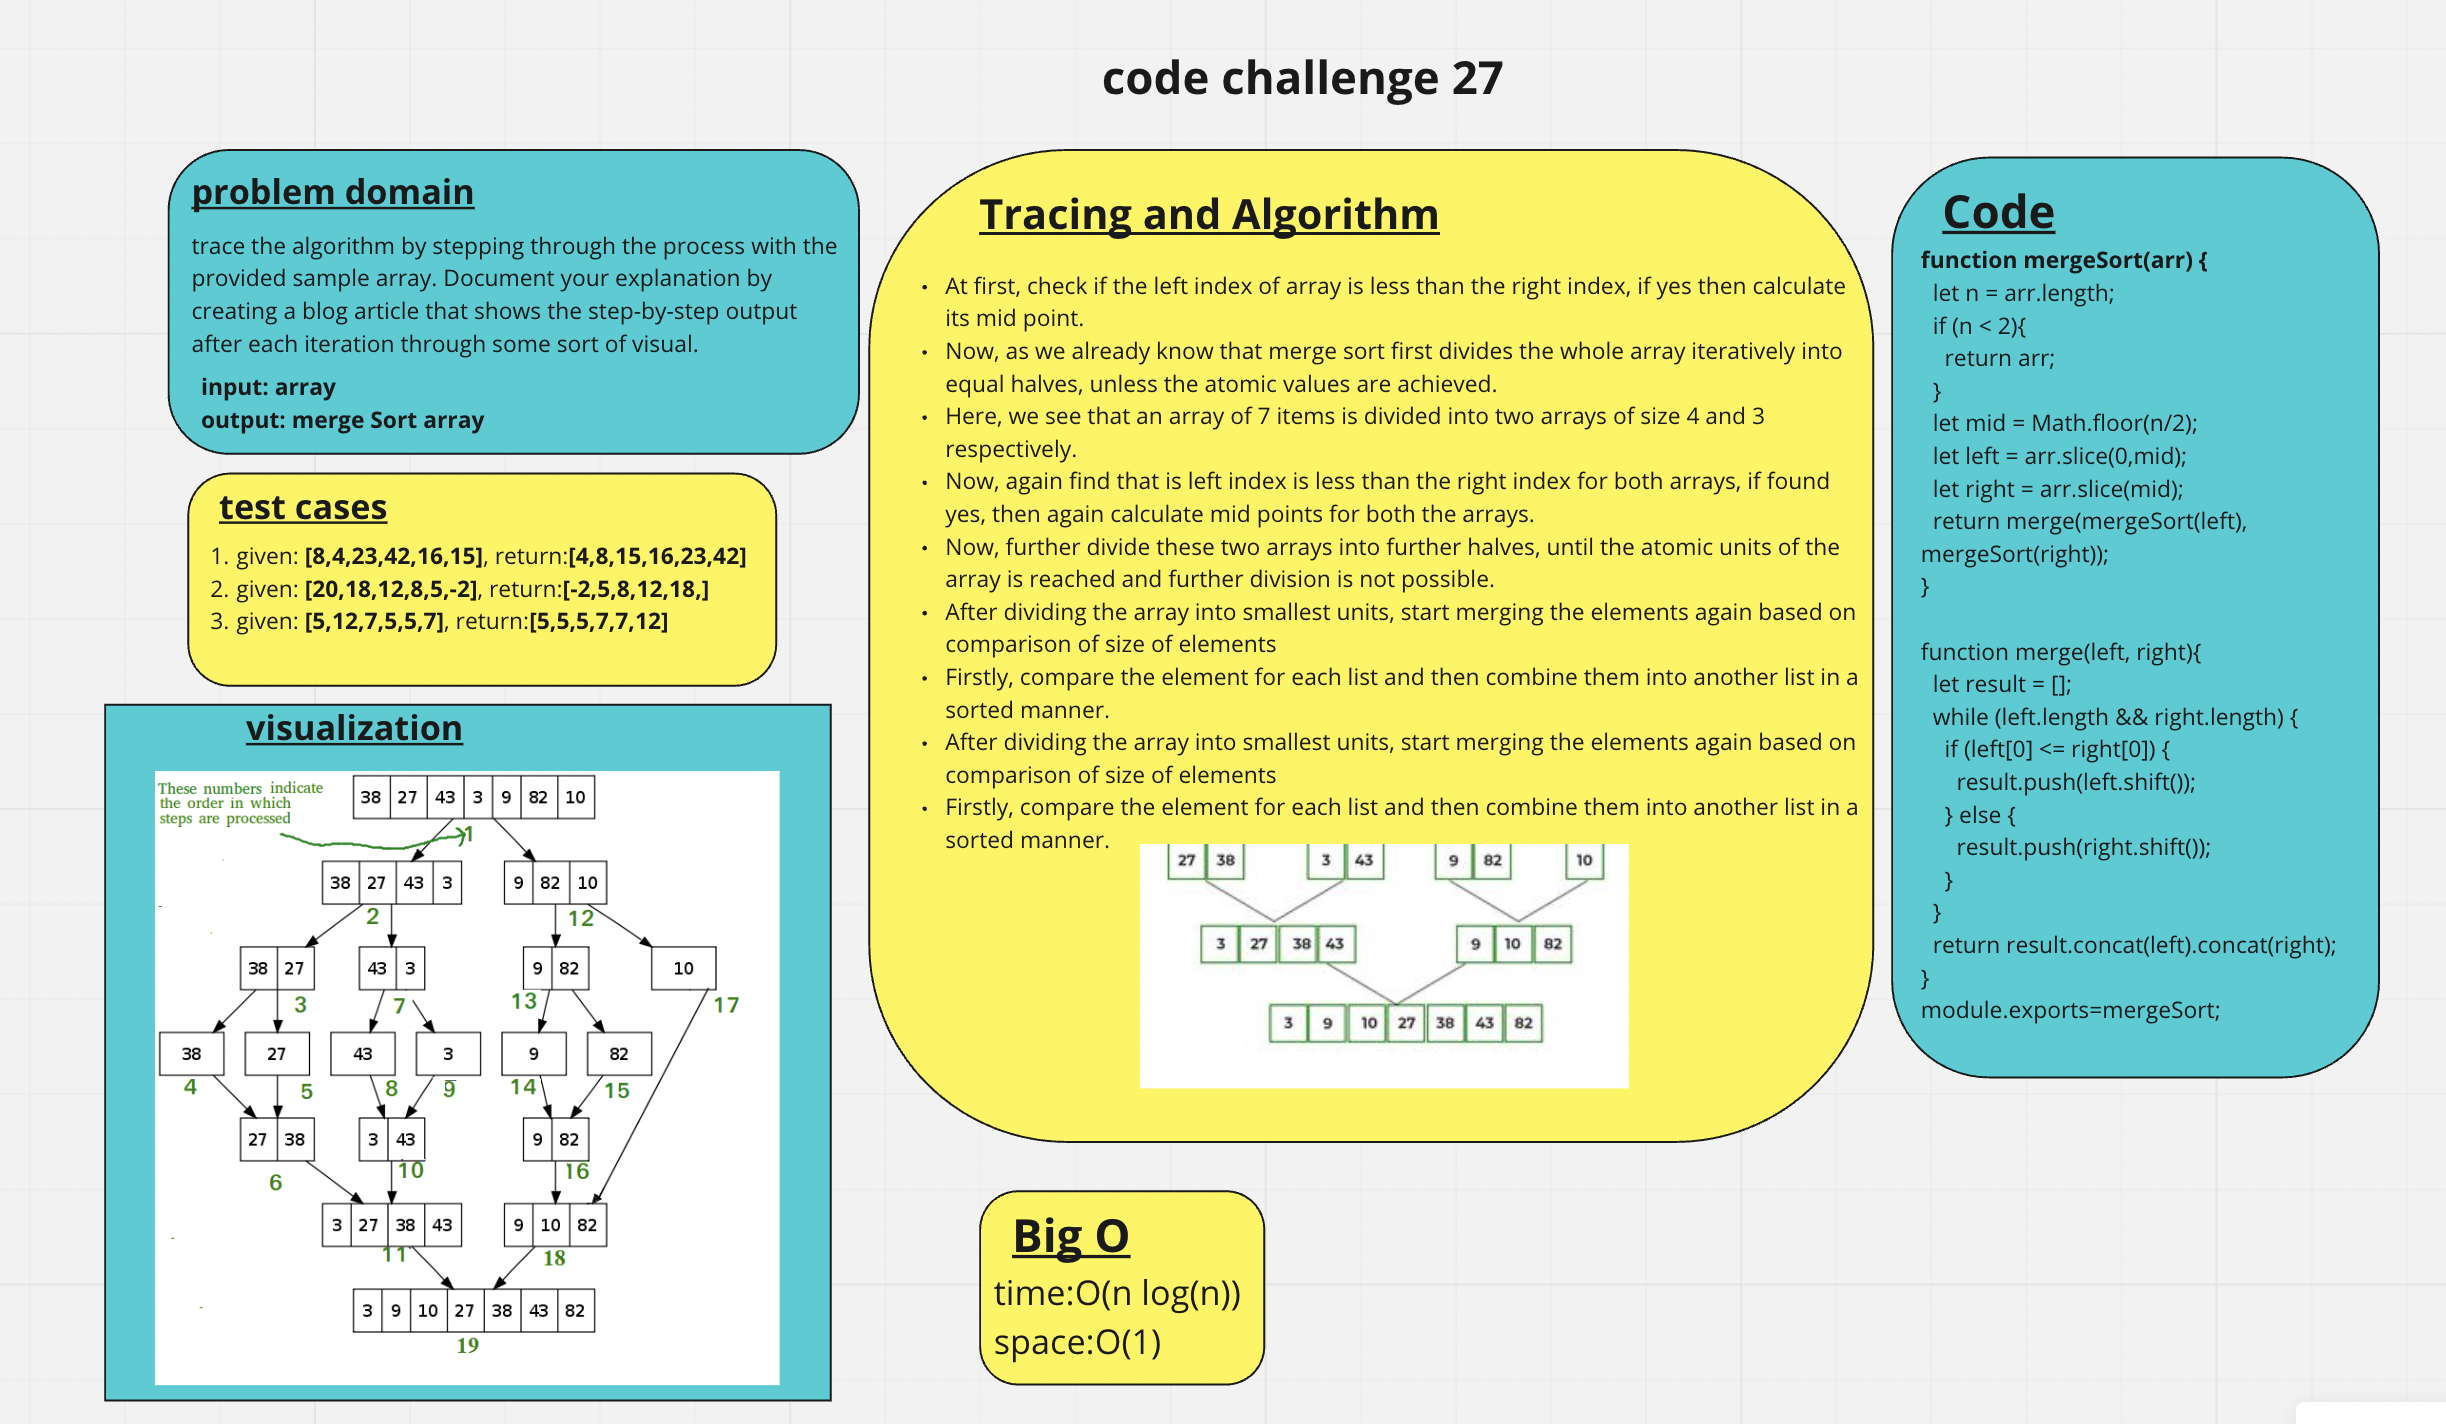
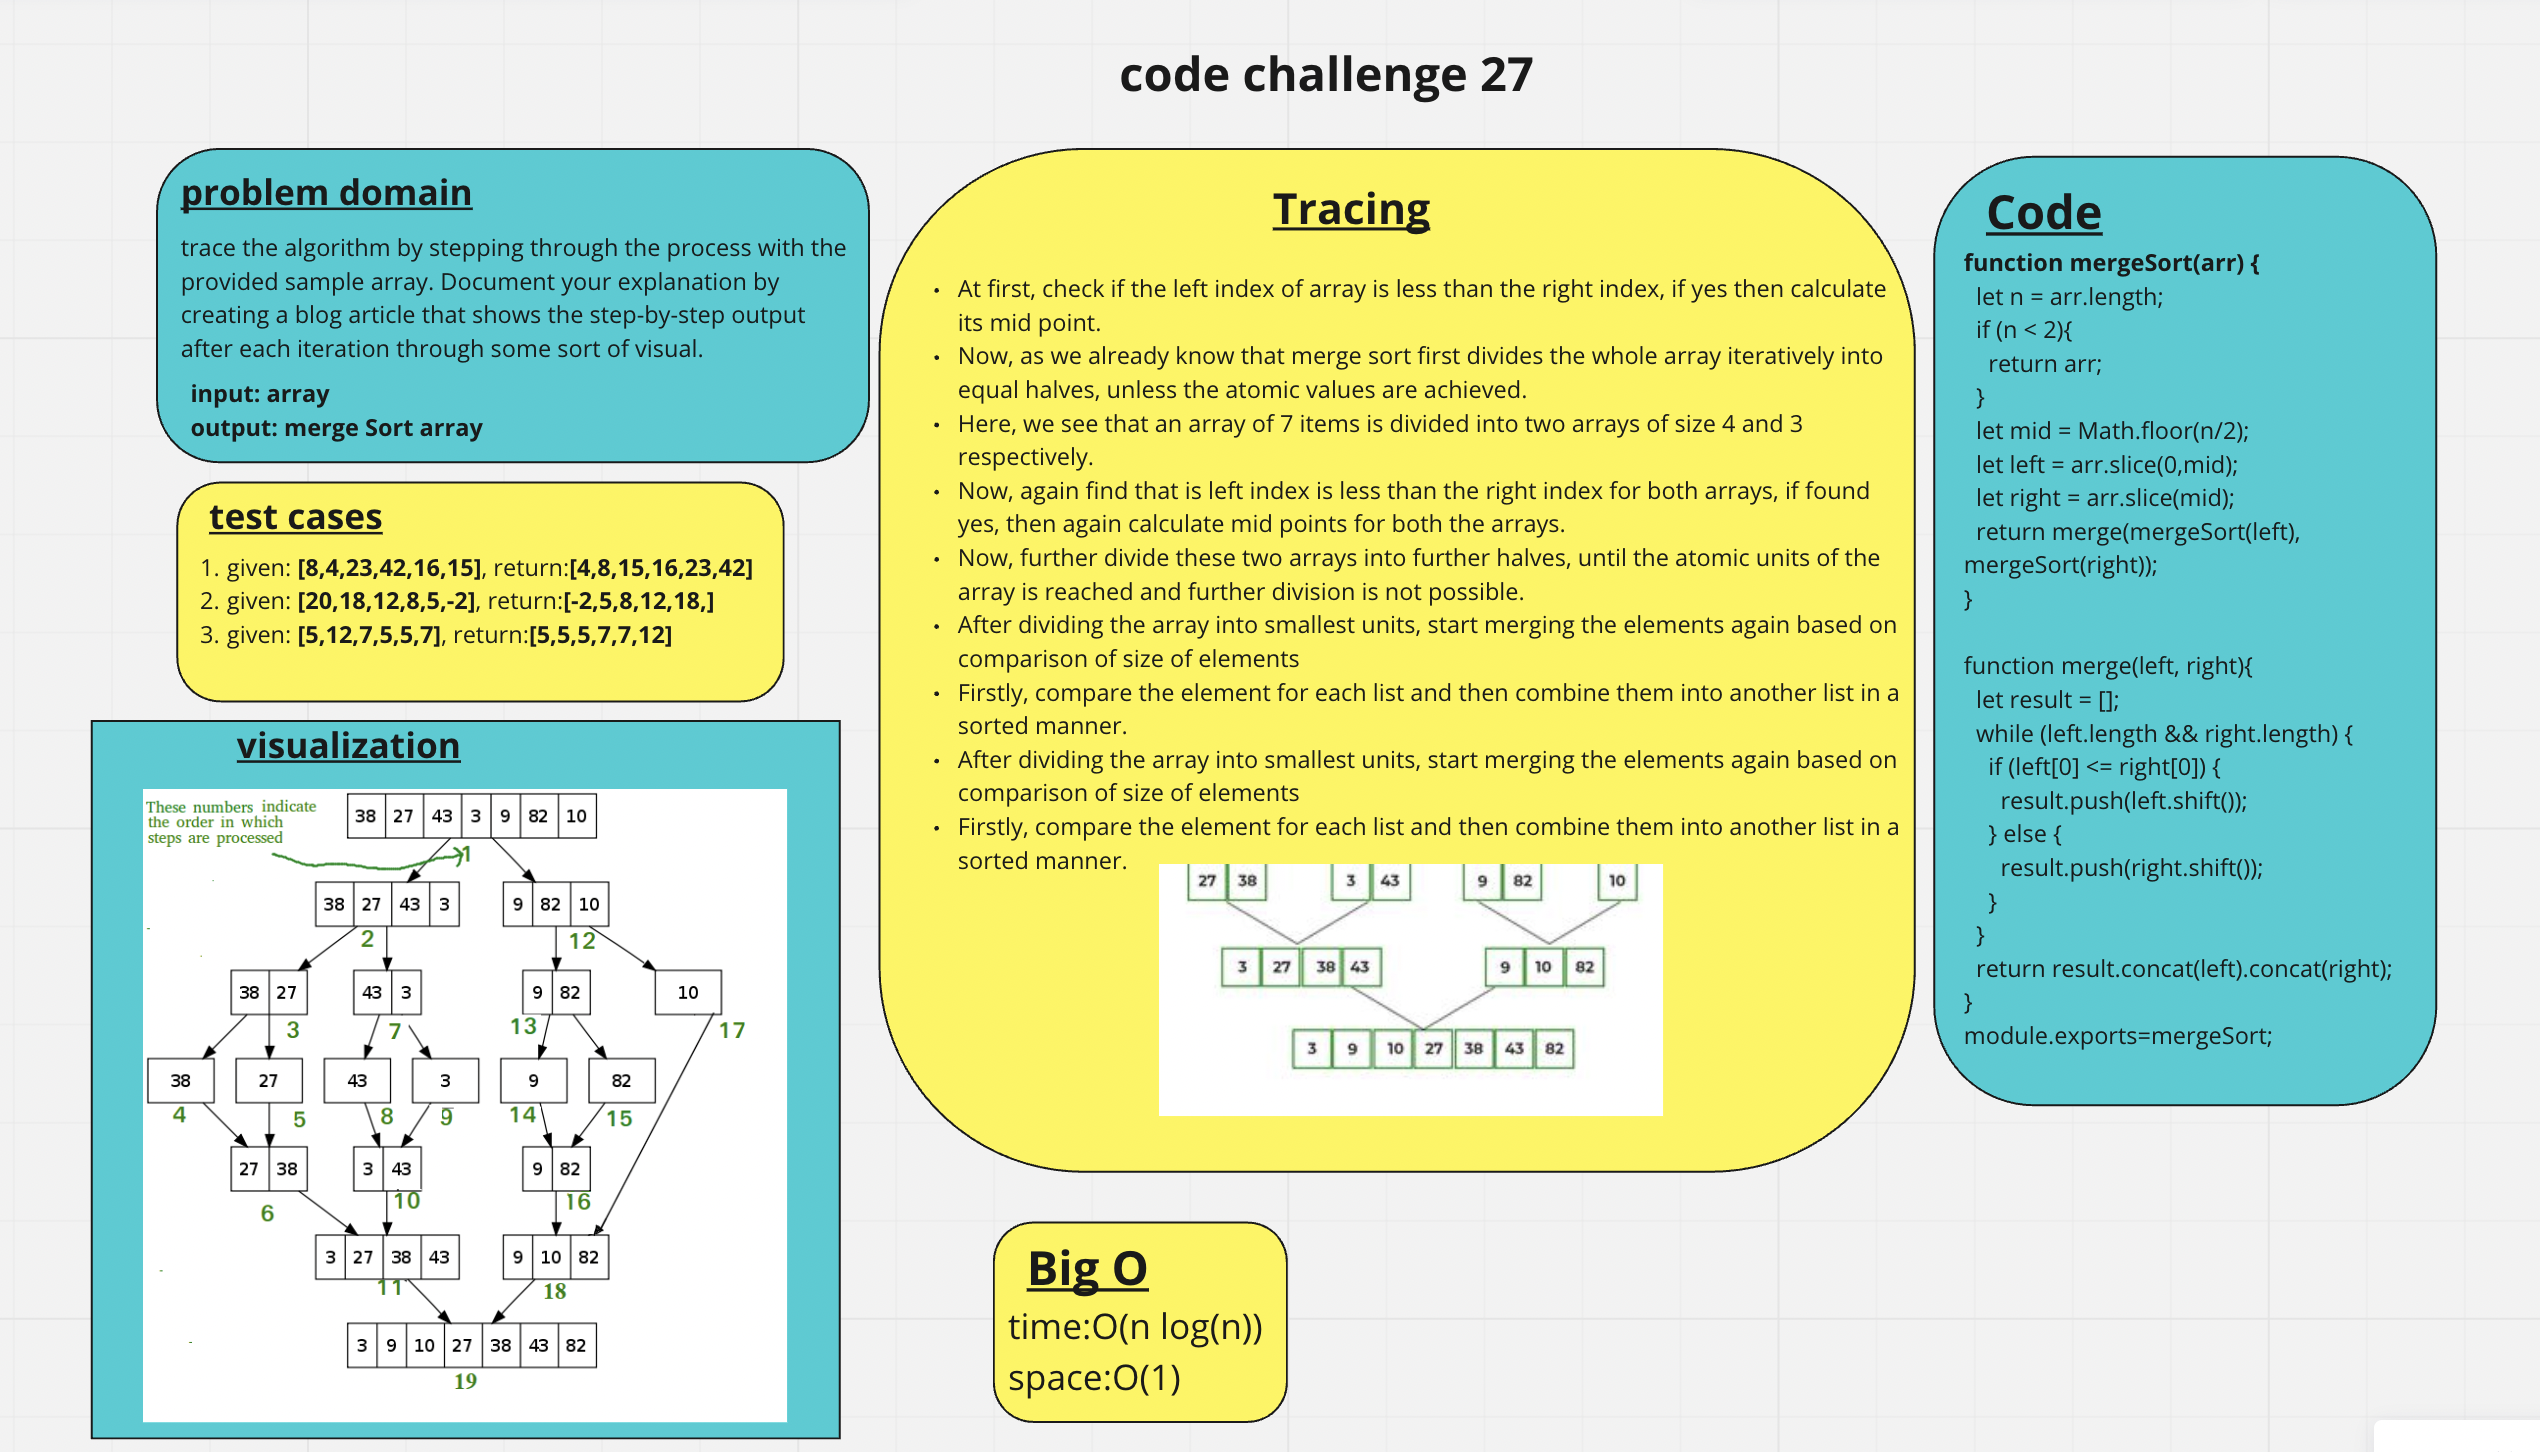
add trace

Changed region(s): [[0.0311, 0.0309, 0.9943, 1.0], [0.6836, 0.7416, 0.7457, 0.8034]]

diff --git a/javascript/class-27/README.md b/javascript/class-27/README.md
@@ -6,6 +6,11 @@ trace the algorithm by stepping through the process with the provided sample arr
 
 ![Whiteboard 27](./assets/code27.png)
 
+## Tracing
+
+![trace 27](./assets/trace27-1.png)
+![trace 27](./assets/trace27-2.png)
+
 ## Approach & Efficiency
 
 - Big O for space: O(n)
